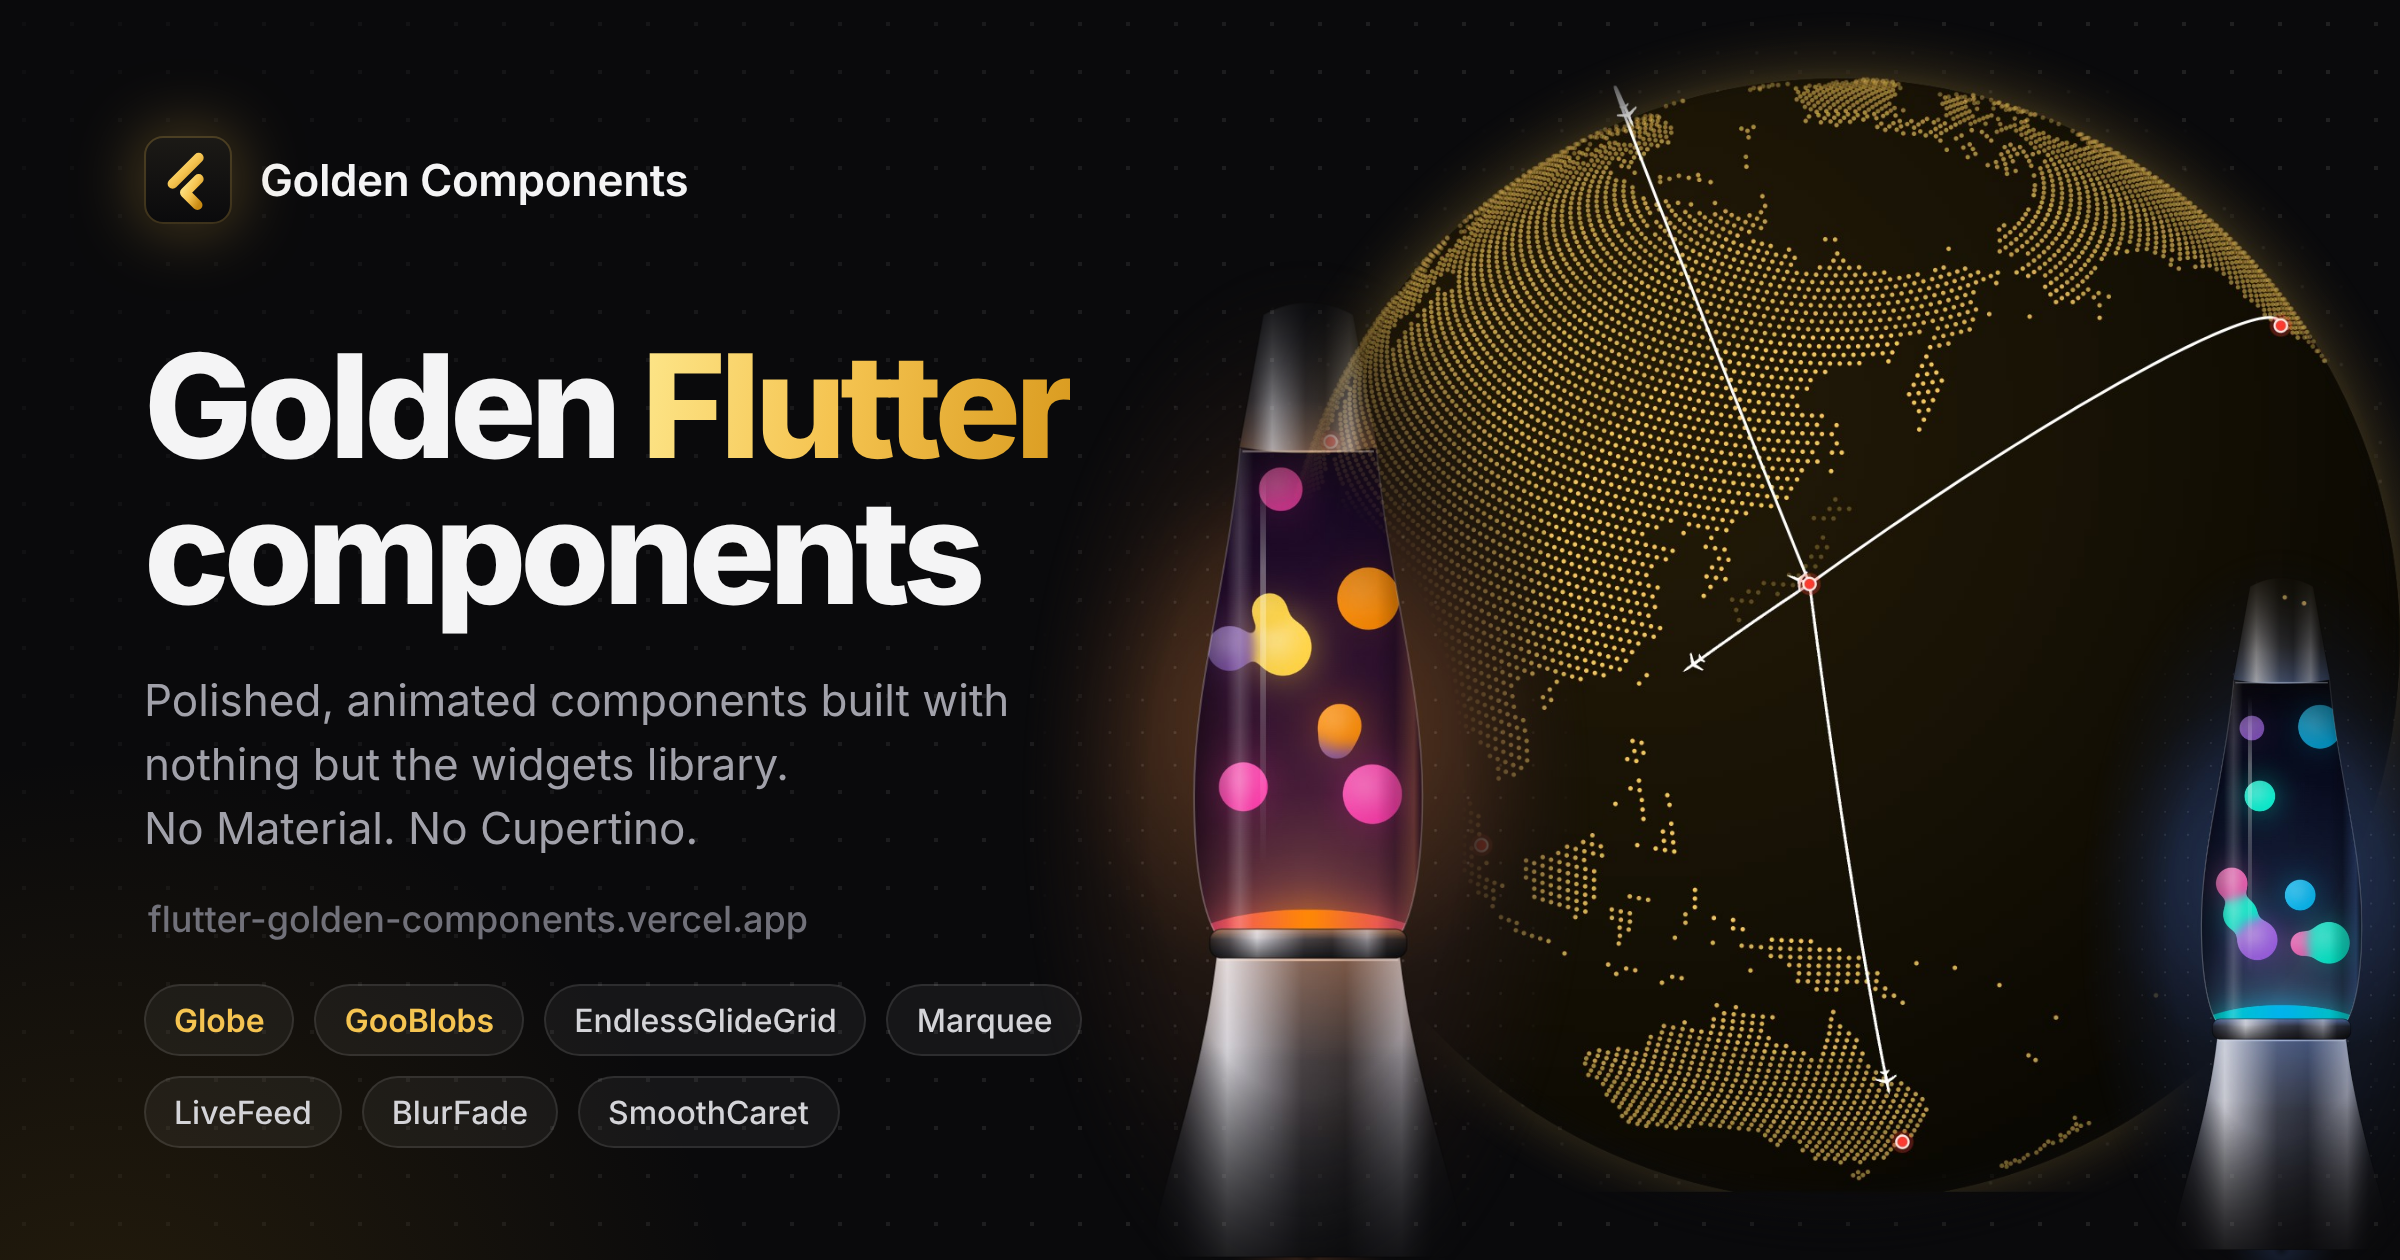
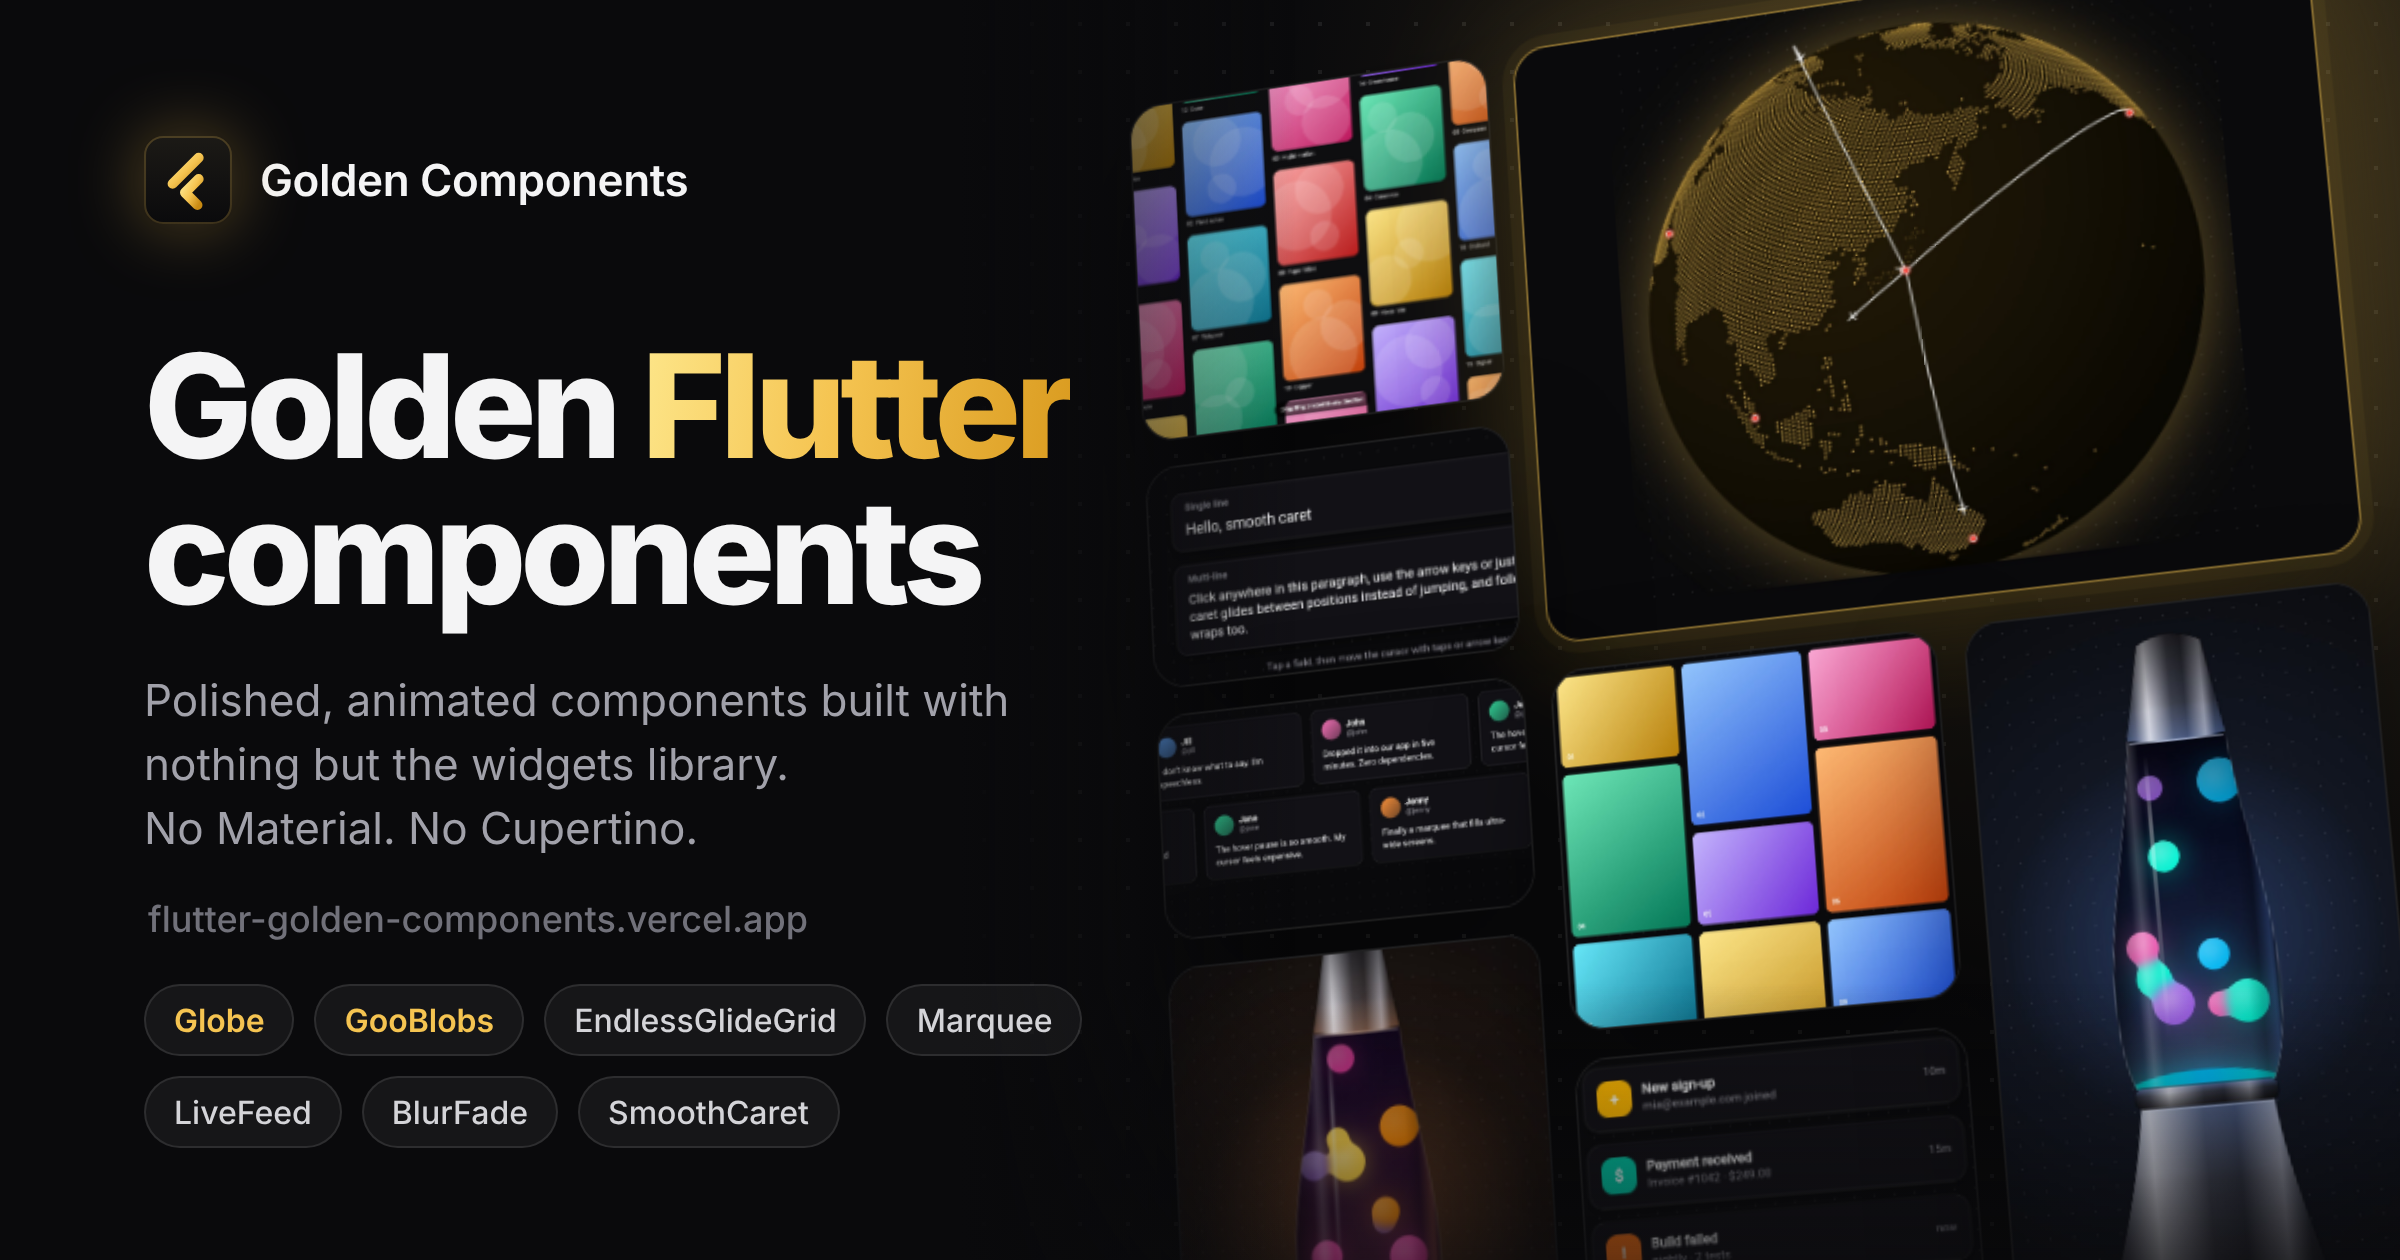
Put every component on the social card
The OG image is now a tilted wall of real gallery renders: the globe,
both GooBlobs lamps, EndlessGlideGrid, SmoothCaret, Marquee, BlurFade
and LiveFeed. App icons are unchanged.

Claude-Session: https://claude.ai/code/session_01Lau5SnzYcLALEXvzM8Simn

Changed region(s): [[0.4375, 0.0, 1.0, 1.0], [0.875, 0.3405, 0.9062, 0.4024]]

diff --git a/scripts/og/og.html b/scripts/og/og.html
@@ -46,27 +46,44 @@
   }
   .chip b { color: #F5C451; font-weight: 600; }
 
-  .shot { position: absolute; display: block; }
-  .globe {
-    width: 620px; left: 610px; top: 6px;
-    mask-image: radial-gradient(circle closest-side, #000 88%, rgba(0,0,0,0.55) 92%, transparent 100%);
+  .wall {
+    position: absolute; left: 560px; top: -6px; z-index: 1;
+    display: grid; grid-template-columns: 200px 200px 200px; grid-auto-rows: 52px; gap: 14px;
+    transform: perspective(2000px) rotateY(-14deg) rotateX(8deg) rotateZ(-6deg);
+    transform-origin: 50% 50%;
   }
-  .globe-glow {
-    position: absolute; width: 680px; height: 680px; left: 580px; top: -24px; border-radius: 50%;
-    background: radial-gradient(circle, rgba(245,196,81,0.18) 38%, rgba(245,196,81,0.06) 48%, transparent 62%);
+  .tile {
+    position: relative; overflow: hidden; border-radius: 18px; background: #0A0A0C;
+    border: 1px solid rgba(255,255,255,0.09);
+    box-shadow: 0 30px 60px rgba(0,0,0,0.55);
   }
-  .lamp { mask-image: radial-gradient(ellipse 48% 50% at 50% 50%, #000 55%, transparent 100%); }
-  .lamp.lava { height: 540px; left: 505px; bottom: -40px; z-index: 2; }
-  .lamp.neon { height: 380px; right: -44px; bottom: -24px; z-index: 1; opacity: 0.95; }
+  .tile img { position: absolute; inset: 0; width: 100%; height: 100%; object-fit: cover; }
+  .tile.hero {
+    border-color: rgba(245,196,81,0.55);
+    box-shadow: 0 0 0 6px rgba(245,196,81,0.05), 0 0 80px rgba(245,196,81,0.25), 0 30px 60px rgba(0,0,0,0.6);
+  }
+  .fade {
+    position: absolute; inset: 0; z-index: 2; pointer-events: none;
+    background:
+      linear-gradient(90deg, #0A0A0C 0%, #0A0A0C 40%, rgba(10,10,12,0.6) 46%, rgba(10,10,12,0) 54%),
+      linear-gradient(0deg, rgba(10,10,12,0.6) 0%, rgba(10,10,12,0) 22%);
+  }
   .url { z-index: 3; position: absolute; left: 74px; bottom: 160px; font-size: 18px; color: #71717A; font-weight: 500; }
 </style>
 </head>
 <body>
-  <div class="dots"></div><div class="glow2"></div>
-  <div class="globe-glow"></div>
-  <img class="shot globe" src="shots/globe.jpg" alt="">
-  <img class="shot lamp neon" src="shots/lamp-neon.jpg" alt="">
-  <img class="shot lamp lava" src="shots/lamp-lava.jpg" alt="">
+  <div class="dots"></div><div class="glow"></div><div class="glow2"></div>
+  <div class="wall">
+    <div class="tile" style="grid-column:1; grid-row:1 / span 3"><img src="shots/grid.jpg" alt=""></div>
+    <div class="tile hero" style="grid-column:2 / span 2; grid-row:1 / span 5"><img src="shots/globe.jpg" alt="" style="object-fit:contain"></div>
+    <div class="tile" style="grid-column:1; grid-row:4 / span 2"><img src="shots/caret.jpg" alt="" style="object-position:0 50%"></div>
+    <div class="tile" style="grid-column:1; grid-row:6 / span 2"><img src="shots/marquee.jpg" alt=""></div>
+    <div class="tile" style="grid-column:1; grid-row:8 / span 5"><img src="shots/lamp-lava.jpg" alt=""></div>
+    <div class="tile" style="grid-column:2; grid-row:6 / span 3"><img src="shots/blur.jpg" alt="" style="object-position:50% 0"></div>
+    <div class="tile" style="grid-column:2; grid-row:9 / span 4"><img src="shots/feed.jpg" alt="" style="object-position:50% 0"></div>
+    <div class="tile" style="grid-column:3; grid-row:6 / span 6"><img src="shots/lamp-neon.jpg" alt=""></div>
+  </div>
+  <div class="fade"></div>
   <div class="left">
     <div class="brand"><img class="logo" src="../../example/web/favicon.svg" alt="">Golden Components</div>
     <h1>Golden <span class="gold">Flutter</span><br>components</h1>
